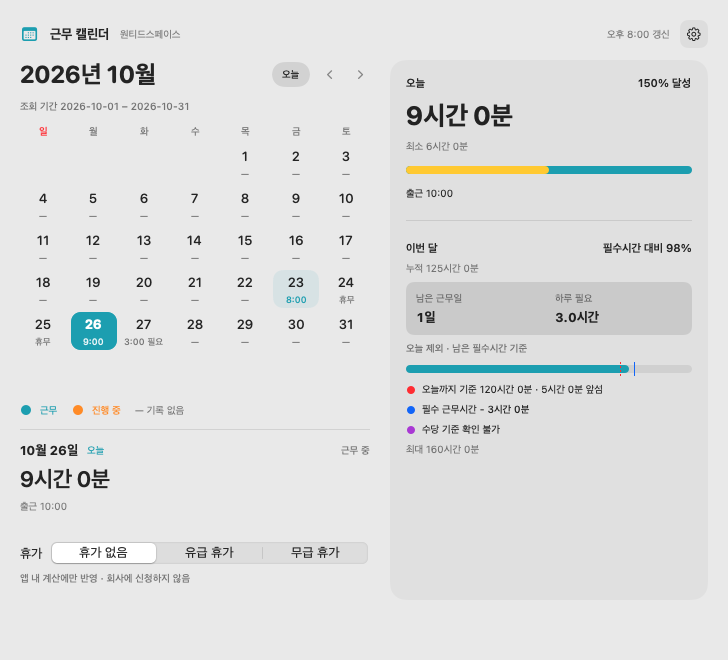
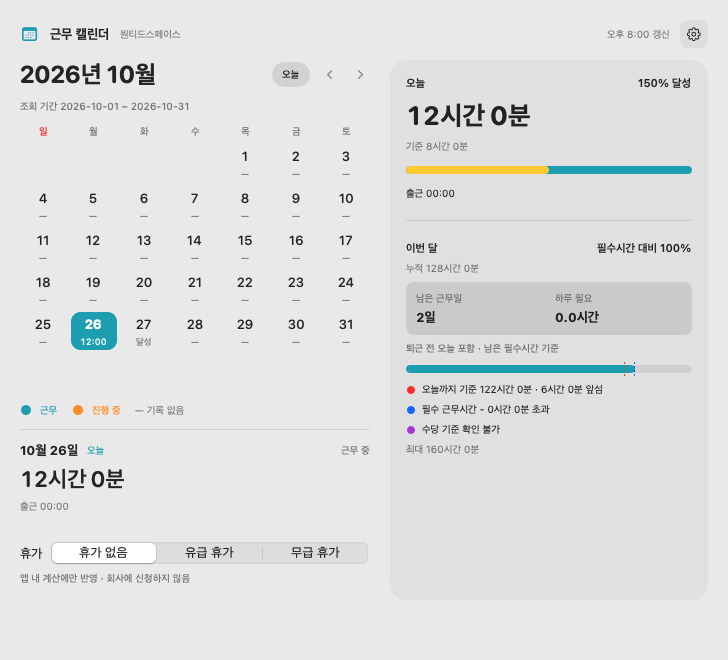
fix(progress): 달력 옆 오늘 달성률과 진행 바를 8시간 기준으로 고정

diff --git a/Tests/MenuTests.swift b/Tests/MenuTests.swift
@@ -281,14 +281,14 @@ struct MenuTests {
             return (bitmap, texts)
         }
 
-        // Four hours against a six-hour minimum fills 2/3, rather than the fixed eight-hour 1/2.
+        // Daily progress uses eight hours, independently of the remaining monthly requirement.
         let working = DailyRecord(date: date, start: start, scheduledEnd: scheduledEnd,
                                   currentMinutes: 240, holidayStatus: workday)
         let (_, decimalTexts) = try await render(working, required: 7610, name: "daily-required")
         precondition(decimalTexts.joined().contains("3.4시간"), decimalTexts.joined())
         let (_, texts) = try await render(working, name: "working")
-        precondition(texts.joined().contains("67%달성"))
-        precondition(texts.joined().contains("최소6시간0분"))
+        precondition(texts.joined().contains("50%달성"))
+        precondition(texts.joined().contains("기준8시간0분"))
         precondition(texts.joined().contains("예상퇴근18:00"))
         precondition(texts.joined().contains("필수시간대비94%"))
         precondition(texts.joined().contains("최대160시간0분"))
@@ -308,19 +308,19 @@ struct MenuTests {
         try VNImageRequestHandler(cgImage: summaryImage).perform([summaryRequest])
         let summaryText = (summaryRequest.results ?? []).compactMap { $0.topCandidates(1).first?.string }
             .joined().filter { !$0.isWhitespace }
-        precondition(summaryText.contains("167%"), summaryText)
+        precondition(summaryText.contains("125%"), summaryText)
 
 
         let reached = DailyRecord(date: date, start: start, scheduledEnd: scheduledEnd,
                                   currentMinutes: 480, holidayStatus: workday)
         let (_, reachedTexts) = try await render(reached, name: "reached")
-        precondition(reachedTexts.joined().contains("133%"))
+        precondition(reachedTexts.joined().contains("100%달성"))
         let (_, zeroTexts) = try await render(working, required: 6600, name: "zero-target")
-        precondition(zeroTexts.joined().contains("이번달필수시간달성"))
+        precondition(zeroTexts.joined().contains("50%달성"))
 
         let offDay = DailyRecord(date: date, workedMinutes: 240, holidayStatus: "HOLIDAY_WORKING_OFF_NONE_NONE")
         let (_, offTexts) = try await render(offDay, days: 0, name: "no-workdays")
-        precondition(offTexts.joined().contains("남은근무일없음"))
+        precondition(offTexts.joined().contains("50%달성"))
 
         let before = DailyRecord(date: date, scheduledEnd: scheduledEnd, holidayStatus: workday)
         let (_, beforeTexts) = try await render(before, name: "before-clock-in")
@@ -339,13 +339,14 @@ struct MenuTests {
         let (achievedImage, _) = try await render(before, required: 6900, name: "before-achieved")
         let achievedText = try calendarText(achievedImage)
         precondition(achievedText.contains("달성"), achievedText)
-        let (unknownImage, _) = try await render(before, required: 7710, attendanceKnown: false, name: "unknown-attendance")
+        let (unknownImage, unknownTexts) = try await render(before, required: 7710, attendanceKnown: false, name: "unknown-attendance")
         let unknownText = try calendarText(unknownImage)
         precondition(!unknownText.contains("필요") && !unknownText.contains("달성"), unknownText)
+        precondition(!unknownTexts.joined().contains("%달성"))
         let ended = DailyRecord(date: date, start: start, end: "2026-10-01T13:00:00+09:00",
                                 scheduledEnd: scheduledEnd, workedMinutes: 240, holidayStatus: workday)
         let (_, endedTexts) = try await render(ended, days: 1, name: "after-clock-out")
-        precondition(endedTexts.joined().contains("67%달성") && endedTexts.joined().contains("퇴근13:00"))
+        precondition(endedTexts.joined().contains("50%달성") && endedTexts.joined().contains("퇴근13:00"))
 
         let overnight = DailyRecord(date: "2026-09-30", start: "2026-09-30T15:00:00+09:00",
                                     scheduledEnd: "2026-09-30T18:00:00+09:00",
@@ -357,7 +358,7 @@ struct MenuTests {
                                           maximumWorkMinutes: 9600)
         let (_, overnightTexts) = try await render(overnight, days: 0, report: previousMonth, name: "overnight")
         precondition(overnightTexts.joined().contains("2026-09-30까지기준132시간0분"))
-        precondition(overnightTexts.joined().contains("최소12시간0분"))
+        precondition(overnightTexts.joined().contains("113%달성"))
 
         // Calendar boundaries must remain correct across leap years, six-row months and time zones.
         func calendarSnapshot(_ first: String, _ last: String, _ instant: String) -> AttendanceSnapshot {

diff --git a/Tests/CoreTests.swift b/Tests/CoreTests.swift
@@ -150,7 +150,6 @@ struct CoreTests {
                                                  remainingWorkDays: 2, updatedAt: morning)
         // Today's 4 hours are included in the month: the daily goal stays 8 hours, not 6.
         precondition(minimumSnapshot.minimumTodayMeter?.targetMinutes == 480)
-        precondition(minimumSnapshot.minimumTodayFill == 0.5)
         precondition(minimumSnapshot.expectedMinutesByNow == 7440)
         // Extra work uses today's six-hour minimum, even before the month is in surplus.
         for minutes in [0, 240, 360, 440, 720, 900] {
@@ -166,7 +165,6 @@ struct CoreTests {
                                               remainingWorkDays: 2, updatedAt: morning)
             let extra = max(0, minutes - 360)
             precondition(progress.minimumTodayMeter?.targetMinutes == 360)
-            precondition(progress.minimumTodayFill == Double(minutes) / 360)
             precondition(progress.minimumTodayOvertimeMinutes == extra)
             precondition(progress.menuTitle.contains(" · +") == (extra > 0))
             if minutes == 440 {
@@ -243,8 +241,6 @@ struct CoreTests {
         precondition(AttendanceSnapshot(record: laterDay, month: laterMonth,
                                         remainingWorkDays: 2, updatedAt: morning).minimumTodayMeter?.targetMinutes == 480)
         precondition(AttendanceSnapshot(record: laterDay, month: laterMonth,
-                                        remainingWorkDays: 2, updatedAt: morning).minimumTodayFill == 0.75)
-        precondition(AttendanceSnapshot(record: laterDay, month: laterMonth,
                                         remainingWorkDays: 2, updatedAt: morning).expectedMinutesByNow == 7440)
         // The goal is stable after the schedule ends or the employee clocks out.
         precondition(AttendanceSnapshot(record: minimumDay, month: minimumMonth,
@@ -270,11 +266,11 @@ struct CoreTests {
                                         remainingWorkDays: 2, updatedAt: morning).minimumTodayMeter?.targetMinutes == 481)
         let achieved = AttendanceSnapshot(record: minimumDay, month: month,
                                            remainingWorkDays: 2, updatedAt: morning)
-        precondition(achieved.minimumTodayMeter?.targetMinutes == 0 && achieved.minimumTodayFill == 1)
+        precondition(achieved.minimumTodayMeter?.targetMinutes == 0)
         precondition(achieved.minimumTodayOvertimeMinutes == 240)
         let noDays = AttendanceSnapshot(record: offDay, month: minimumMonth,
                                         remainingWorkDays: 0, updatedAt: evening)
-        precondition(noDays.minimumTodayMeter == nil && noDays.minimumTodayFill == 0)
+        precondition(noDays.minimumTodayMeter == nil)
         precondition(noDays.minimumTodayOvertimeMinutes == 0)
         precondition(noDays.expectedMinutesByNow == minimumMonth.targetMinutes)
         let unevenSnapshot = AttendanceSnapshot(record: minimumDay, month: unevenMonth,
@@ -306,6 +302,18 @@ struct CoreTests {
         precondition(AttendanceSnapshot.clock("2026-09-29 18:00:00") == "18:00")
         precondition(snapshot.todayMeter.actualMinutes == 150)
         precondition(snapshot.todayMeter.targetMinutes == 480)
+        let shortDayMonth = MonthlyReport(workedMinutes: 8000, outsideMinutes: 0, requiredMinutes: 7920,
+                                          vacationMinutes: 0, weekendMinutes: 0, dailyRequiredMinutes: 360,
+                                          startDate: "2026-09-01", endDate: "2026-09-30", maximumWorkMinutes: nil)
+        for (minutes, percent) in [(0, 0), (240, 50), (480, 100), (600, 125), (960, 200), (1200, 250)] {
+            let day = DailyRecord(date: minimumDay.date, start: minimumDay.start,
+                                  currentMinutes: minutes, holidayStatus: minimumDay.holidayStatus)
+            var fixedDay = AttendanceSnapshot(record: day, month: shortDayMonth,
+                                              remainingWorkDays: 0, updatedAt: evening)
+            fixedDay.dailyTargetMinutes = 120
+            precondition(fixedDay.todayMeter.targetMinutes == 480 && fixedDay.todayMeter.percent == percent,
+                         "Daily progress must use eight hours even with short schedules or completed monthly requirements")
+        }
         precondition(snapshot.monthMeter.actualMinutes == 8664)
         precondition(snapshot.monthMeter.targetMinutes == 7920)
         precondition(!SavedCookie(HTTPCookie(properties: [.name: "x", .value: "y", .domain: "example.com", .path: "/"])!).belongsToWantedSpace)

diff --git a/Sources/App.swift b/Sources/App.swift
@@ -1409,30 +1409,29 @@ struct TodaySummary: View {
     let snapshot: AttendanceSnapshot
 
     var body: some View {
+        let meter = snapshot.todayMeter
         VStack(alignment: .leading, spacing: 10) {
             HStack {
                 Text(snapshot.dayTitle).font(.subheadline.weight(.semibold))
                 Spacer()
-                if let minimum = snapshot.minimumTodayMeter {
-                    Text(minimum.targetMinutes > 0 ? "\(minimum.percent)% 달성" : "목표 달성")
+                if snapshot.attendanceKnown {
+                    Text("\(meter.percent)% 달성")
                         .font(.subheadline.weight(.semibold))
                 }
             }
             Text(AttendanceSnapshot.duration(snapshot.todayMinutes))
                 .font(.system(size: 26, weight: .bold, design: .rounded)).monospacedDigit()
-            if let minimum = snapshot.minimumTodayMeter {
-                Text("최소 \(AttendanceSnapshot.duration(minimum.targetMinutes))")
+            if snapshot.attendanceKnown {
+                Text("기준 \(AttendanceSnapshot.duration(meter.targetMinutes))")
                     .font(.caption).foregroundStyle(.secondary)
-                WorkProgressBar(fill: snapshot.minimumTodayFill, markers: [],
-                                value: minimum.targetMinutes > 0 ? "실제 \(minimum.percent)%" : "필수시간 달성",
-                                label: "\(snapshot.dayTitle) 최소 근무시간 진행률")
-                if minimum.targetMinutes == 0 {
-                    Text("\(snapshot.monthTitle) 필수시간 달성").font(.caption)
+                WorkProgressBar(fill: Double(meter.actualMinutes) / Double(meter.targetMinutes), markers: [],
+                                value: "8시간 기준 \(meter.percent)%",
+                                label: "\(snapshot.dayTitle) 근무시간 진행률")
+                if let leave = snapshot.record.flatMap({ snapshot.leaveByDate[$0.date] }) {
+                    Text(leave.title).font(.caption)
                 }
             } else {
-                Text(snapshot.attendanceKnown
-                     ? snapshot.record.flatMap { snapshot.leaveByDate[$0.date]?.title } ?? "남은 근무일 없음"
-                     : "진행률 확인 불가").font(.caption)
+                Text("진행률 확인 불가").font(.caption)
             }
             Text(snapshot.attendanceDescription).font(.caption)
             if let note = snapshot.attendanceNote {

diff --git a/Sources/Core.swift b/Sources/Core.swift
@@ -473,7 +473,7 @@ struct AttendanceSnapshot {
 
     var todayMinutes: Int { record?.totalMinutes ?? 0 }
     var todayMeter: WorkMeter {
-        WorkMeter(actualMinutes: todayMinutes, targetMinutes: month.dailyRequiredMinutes)
+        WorkMeter(actualMinutes: todayMinutes, targetMinutes: 480)
     }
     /// Remaining workdays this month; today counts while it is a scheduled workday not yet finished.
     private var remainingDaysIncludingToday: Int {
@@ -506,10 +506,6 @@ struct AttendanceSnapshot {
         let days = remainingRequiredWorkDays
         guard attendanceKnown, days > 0 else { return nil }
         return Double(displayMonth.remainingMinutes) / Double(days) / 60
-    }
-    var minimumTodayFill: Double {
-        guard let meter = minimumTodayMeter else { return 0 }
-        return meter.targetMinutes == 0 ? 1 : Double(max(0, meter.actualMinutes)) / Double(meter.targetMinutes)
     }
     var minimumTodayOvertimeMinutes: Int {
         guard let meter = minimumTodayMeter else { return 0 }

diff --git a/Tests/FlexViewTests.swift b/Tests/FlexViewTests.swift
@@ -69,7 +69,7 @@ struct FlexViewTests {
         let menuText = try render(WorkMenu(model: model), "menu", width: 728, height: 680)
         precondition(menuText.contains("근무중") && !menuText.contains("서버기록기준") && !menuText.contains("추정"), menuText)
         precondition(menuText.contains("누적75시간0분"), menuText)
-        precondition(menuText.contains("14일") && menuText.contains("6.6시간"), menuText)
+        precondition(menuText.contains("15일") && menuText.contains("6.1시간") && menuText.contains("63%달성"), menuText)
         precondition(menuText.contains("92시간10분") && menuText.contains("230시간12분"), menuText)
         model.advanceLiveTime(to: now.addingTimeInterval(60))
         let nextMinute = try render(WorkMenu(model: model), "menu-next-minute", width: 728, height: 680)

diff --git a/Tests/FlexTests.swift b/Tests/FlexTests.swift
@@ -104,7 +104,6 @@ struct FlexTests {
         var ticking = live
         ticking.advanceLiveTime(to: live.updatedAt.addingTimeInterval(60))
         precondition(ticking.todayMinutes == 145 && ticking.menuTitle.contains("2시간 25분"))
-        precondition(ticking.minimumTodayFill > live.minimumTodayFill)
         precondition(ticking.updatedAt == live.updatedAt && ticking.month.actualMinutes == 4200)
         precondition(ticking.month.creditedMinutes == 3770 && ticking.minimumTodayMeter?.targetMinutes == 486)
         precondition(ticking.displayMonth.actualMinutes == 4345 && ticking.monthMeter.actualMinutes == 3915)

diff --git a/README.md b/README.md
@@ -5,7 +5,8 @@
 상단 메뉴 막대 아이콘은 근무 기준시간과 관계없이 항상 8칸이며, 기준시간 대비 진행률만큼 채워집니다.
 오늘의 달성률은 100%를 넘어 표시합니다. 아이콘은 기준시간을 채울 때마다 초록 → 노랑 → 빨강으로 덧채워지며,
 오늘의 최소 목표가 0이거나 없는 날에는 일일 기준시간을 사용합니다. 퇴근 후에는 채움은 회색, 테두리는 달성 구간의 색으로 표시합니다.
-달력 옆 **오늘** 진행 바도 100% 이후 노랑, 200% 이후 빨강으로 왼쪽부터 덧채웁니다.
+달력 옆 **오늘** 달성률과 진행 바는 남은 월 필수시간이나 회사의 일일 근무시간과 무관하게 **항상 8시간 = 100%** 기준입니다.
+8시간 이후 노랑, 16시간 이후 빨강으로 왼쪽부터 덧채웁니다.
 150%에서는 절반이 노랑, 250%에서는 절반이 빨강이며, 300% 이상에서는 전체가 빨강으로 유지됩니다.
 
 메뉴 막대 아이콘을 누르면 **근무 캘린더**가 열립니다. 날짜를 선택해 근무시간·출퇴근 시각·휴일을 확인하고,
@@ -21,7 +22,7 @@
 
 월간 요약의 **남은 근무일**은 오늘이 근무일이면 퇴근 전까지 오늘을 포함하고, 퇴근 후에는 제외합니다. 휴무·휴가는 제외합니다.
 **하루 필요**는 현재까지 반영된 실적을 뺀 남은 월 필수시간을 이 근무일 수로 나누며, 소수점 한 자리로 표시합니다(6시간 50분 → 6.8시간).
-남은 근무일이 없으면 하루 필요는 `—`로 표시하며, 오늘의 최소 근무 목표는 별도로 유지합니다.
+남은 근무일이 없으면 하루 필요는 `—`로 표시합니다. 이 평균은 오늘 진행 바의 고정 8시간 기준과 별개입니다.
 미출근 근무일의 **달력 날짜 칸**에는 `12:30 필요`처럼 현재 남은 월 필수시간을 표시합니다.
 이미 채웠다면 `달성`으로 표시하며, 마우스를 올리면 전체 설명을 볼 수 있습니다.
 휴무·휴가·근태 미확인 날짜는 기존 표시를 유지합니다. 각 날짜의 과거 잔여시간이 아니라 현재 조회 기간의 잔여시간입니다.
